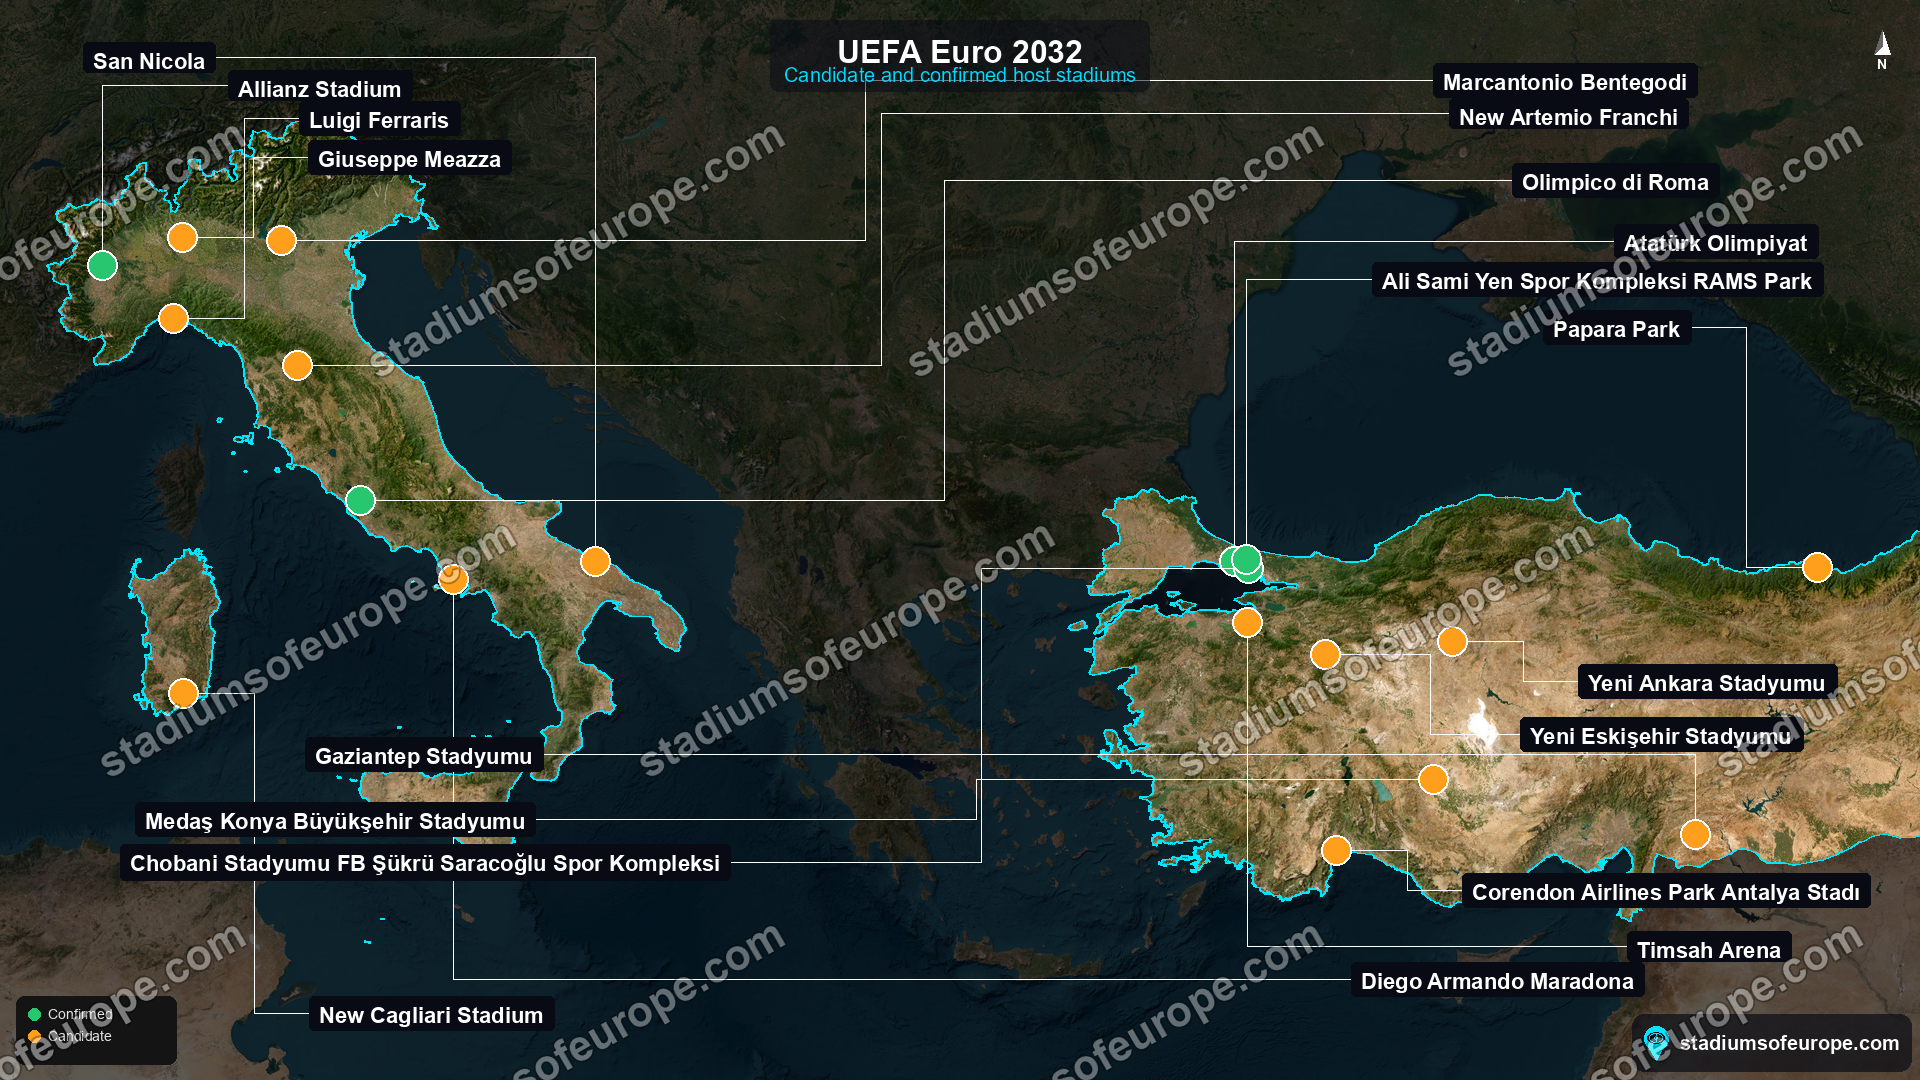
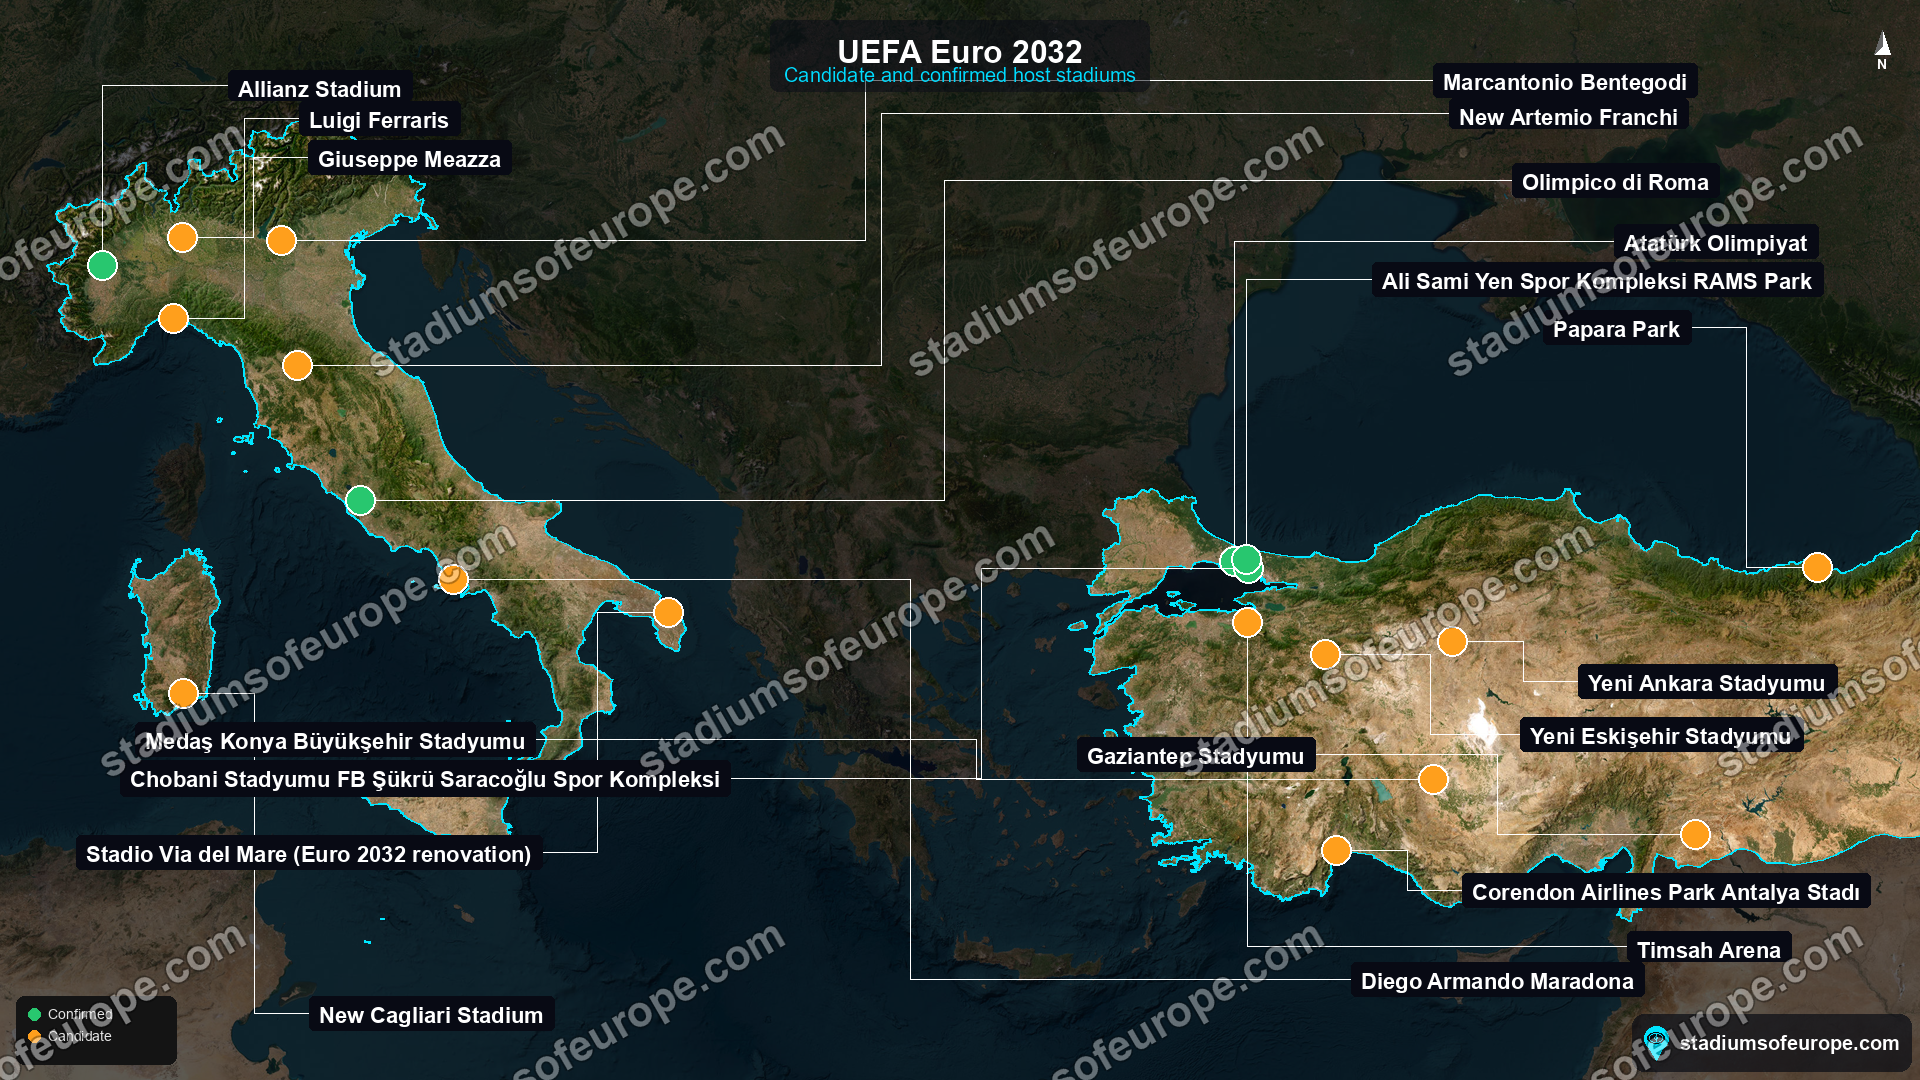
feat: /map landing page; Euro 2032 Bari withdrawn + Lecce renovation candidate
- /map : clean, canonical interactive-map landing page (markers + popups) for linking as an
  external source (e.g. Wikipedia); in sitemap.
- Euro 2032: mark Bari (San Nicola) as DISCARDED; add Lecce's Stadio Via del Mare as an
  under-renovation CANDIDATE via a StadiumDevelopment (also shows in Under Development).
  Renovation/development venues now render in a distinct purple on the tournament map
  (is_development flag in the geojson). Editorial paragraph + LeccePrima source added.
- Regenerated Euro 2032 map PNG; re-dumped fixture.

diff --git a/italianstadia/italiastadiaapp/templates/map_page.html b/italianstadia/italiastadiaapp/templates/map_page.html
@@ -1,0 +1,68 @@
+{% extends "base_detail.html" %}
+{% load static %}
+
+{% block title %}Interactive map of European football stadiums | Stadiums of Europe{% endblock %}
+
+{% block meta %}
+<meta name="description" content="An interactive map of football stadiums across 30+ European leagues — capacity, location, pitch surface and clubs for every ground.">
+<link rel="canonical" href="{{ request.scheme }}://{{ request.get_host }}{% url 'italiastadiaapp:map_page' %}">
+<meta property="og:title" content="Interactive map of European football stadiums">
+<meta property="og:description" content="Every football stadium in Europe on one interactive map — capacity, location, clubs and more.">
+<meta property="og:type" content="website">
+<meta property="og:site_name" content="Stadiums of Europe">
+<meta property="og:image" content="{{ request.scheme }}://{{ request.get_host }}{% static 'exports/insight_overview.png' %}">
+<meta name="twitter:card" content="summary_large_image">
+<meta name="twitter:image" content="{{ request.scheme }}://{{ request.get_host }}{% static 'exports/insight_overview.png' %}">
+{% endblock %}
+
+{% block extra_head %}
+<link rel="stylesheet" href="https://unpkg.com/leaflet@1.9.4/dist/leaflet.css">
+<style>#fullmap{height:78vh;min-height:480px;border-radius:8px;background:#0b1020}</style>
+{% endblock %}
+
+{% block content %}
+<div class="container my-4">
+    <h1 class="mb-2">Interactive map of European football stadiums</h1>
+    <p class="text-secondary mb-3">
+        Explore every football stadium across 30+ European leagues on one interactive map.
+        Click any marker for the ground's <strong>capacity, location and clubs</strong>, or open
+        its full profile. Zoom and pan freely; data covers top divisions and many lower tiers.
+    </p>
+
+    <div id="fullmap" class="mb-3"></div>
+
+    <p class="small text-muted">
+        Looking for more? Use the <a href="{% url 'italiastadiaapp:home' %}">filterable map</a>,
+        browse <a href="{% url 'italiastadiaapp:insights_index' %}">data insights</a>,
+        <a href="{% url 'italiastadiaapp:tournament_detail' 'uefa-euro-2032' %}">Euro 2032 venues</a>,
+        or <a href="{% url 'italiastadiaapp:export_page' %}">export a custom map</a>.
+    </p>
+</div>
+
+<script src="https://unpkg.com/leaflet@1.9.4/dist/leaflet.js"></script>
+<script>
+(function () {
+  var map = L.map("fullmap", { scrollWheelZoom: true }).setView([54, 12], 4);
+  L.tileLayer("https://{s}.basemaps.cartocdn.com/dark_all/{z}/{x}/{y}{r}.png", {
+    attribution: '&copy; OpenStreetMap &copy; CARTO',
+    maxZoom: 18,
+  }).addTo(map);
+  fetch("{% static 'data/stadiums_map.json' %}?v={{ map_version }}")
+    .then(function (r) { return r.json(); })
+    .then(function (fc) {
+      var bounds = [];
+      (fc.features || []).forEach(function (f) {
+        var c = f.geometry && f.geometry.coordinates; if (!c) return;
+        var p = f.properties || {}, ll = [c[1], c[0]]; bounds.push(ll);
+        var cap = p.capacity ? p.capacity.toLocaleString() + " seats" : "";
+        L.circleMarker(ll, { radius: 5, color: "#111", weight: 1,
+          fillColor: "#38bdf8", fillOpacity: .9 })
+          .addTo(map)
+          .bindPopup('<strong><a href="/stadium/' + (p.slug || p.id) + '/">' + p.name + '</a></strong><br>'
+            + (p.city ? p.city + (p.country ? ", " + p.country : "") + "<br>" : "") + cap);
+      });
+      if (bounds.length) map.fitBounds(bounds, { padding: [20, 20], maxZoom: 5 });
+    });
+})();
+</script>
+{% endblock %}

diff --git a/italianstadia/italiastadiaapp/templates/tournament_detail.html b/italianstadia/italiastadiaapp/templates/tournament_detail.html
@@ -394,7 +394,9 @@
         const [lng, lat] = f.geometry.coordinates;
         const props = f.properties;
         // Competing-bid tournaments colour markers by bid; otherwise by venue status.
+        // Under-development / renovation venues get a distinct colour (purple).
         const _statusColor = props.bid_color ? props.bid_color
+            : props.is_development ? "#8b5cf6"
             : props.status === "CONFIRMED" ? "#198754"
             : props.status === "DISCARDED" ? "#dc3545" : "#ffc107";
         const circle = L.circleMarker([lat, lng], {

diff --git a/italianstadia/italiastadiaapp/views.py b/italianstadia/italiastadiaapp/views.py
@@ -524,6 +524,13 @@ def embed_map(request):
     return render(request, "embed_map.html", {"map_version": _map_version()})
 
 
+@cache_page(60 * 60)
+def map_page(request):
+    """Dedicated, clean interactive-map landing page at /map — a stable, descriptive URL
+    suitable for linking as an external source (e.g. from Wikipedia)."""
+    return render(request, "map_page.html", {"map_version": _map_version()})
+
+
 def _available_countries():
     """Countries that appear in the DB, ordered by UEFA 5-year coefficient rank.
 
@@ -1045,8 +1052,15 @@ _TOURNAMENT_EDITORIAL = {
             "leaving Turkey to be awarded the tournament as sole host. Those concerns are not "
             "merely hypothetical, UEFA president Aleksander Čeferin has publicly warned that "
             "Italy risks being removed as co-host if its infrastructure plans do not progress.",
+            "The Italian host list is also shifting. Bari's Stadio San Nicola has effectively "
+            "dropped out of the running, while Lecce's Stadio Ettore Giardiniero (Via del Mare) "
+            "has stepped forward: its candidacy was accepted, with a renovation planned to bring "
+            "the ground up to UEFA standard. On the map below Bari is marked as withdrawn and "
+            "Lecce appears as an under-renovation candidate.",
         ],
         "sources": [
+            {"label": "LeccePrima, Via del Mare's Euro 2032 candidacy accepted",
+             "url": "https://www.lecceprima.it/sport/calcio/euro-2032-via-del-mare-candidatura-accettata.html"},
             {"label": "Calcio e Finanza, Italy–Turkey joint candidacy for Euro 2032",
              "url": "https://www.calcioefinanza.it/2023/07/28/gravina-candidatura-italia-turchia-per-euro-2032-svolta-storica/"},
             {"label": "Football Italia, Gravina on Italy, Euro 2032 and Turkey",
@@ -1197,6 +1211,7 @@ def tournament_detail(request, slug):
                 "matches": v["matches"],
                 "bid": v.get("bid", ""),
                 "bid_color": _BID_COLOR_HEX.get(v.get("bid", ""), ""),
+                "is_development": v.get("is_development", False),
             },
         })
     geojson = json.dumps({"type": "FeatureCollection", "features": features})

diff --git a/italianstadia/italiastadiaapp/urls.py b/italianstadia/italiastadiaapp/urls.py
@@ -20,6 +20,7 @@ urlpatterns = [
     path("favicon.ico", RedirectView.as_view(url="/static/icons/favicon.ico", permanent=True)),
     path('', views.index, name='home'),
     path('embed/map/', views.embed_map, name='embed_map'),
+    path('map', views.map_page, name='map_page'),
     path('cities/', city_list, name='city_list'),
     path('stadiums/', stadium_list, name='stadium_list'),
     path('under-development/', stadium_development_list, name='stadium_development_list'),

diff --git a/italianstadia/italiastadiaapp/sitemaps.py b/italianstadia/italiastadiaapp/sitemaps.py
@@ -124,7 +124,7 @@ class StaticViewSitemap(_DataLastmodMixin, Sitemap):
     priority = 1.0
 
     def items(self):
-        return ["home", "stadium_list", "team_list", "city_list", "stadium_development_list",
+        return ["home", "map_page", "stadium_list", "team_list", "city_list", "stadium_development_list",
                 "insights_index", "insight_national", "insight_surface", "insight_density",
                 "insight_biggest", "insight_league_capacity"]
 
